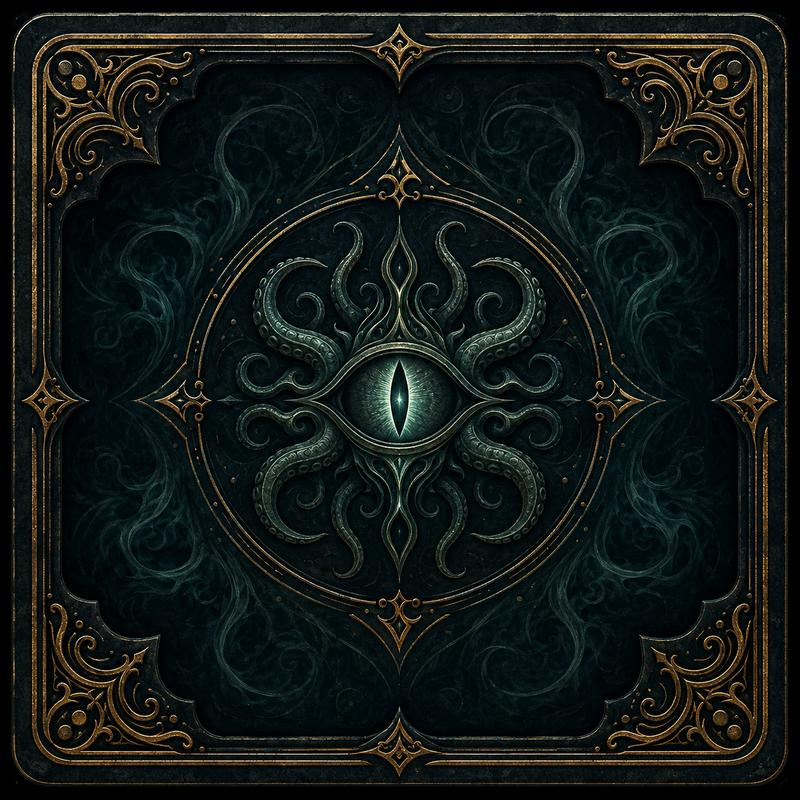
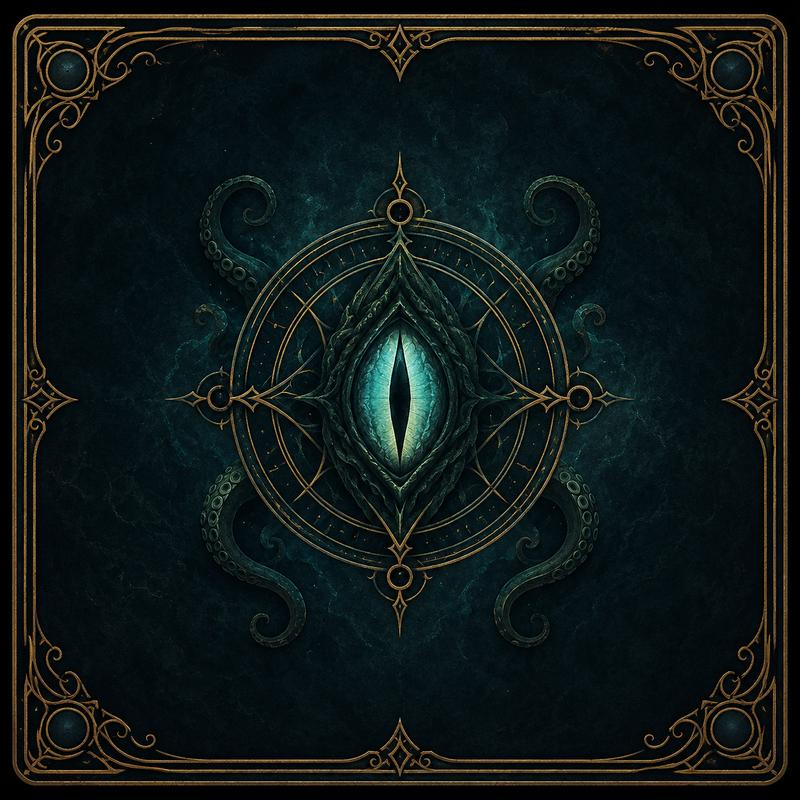
feat(splendor): optimize and update newly uploaded tier 1/2/3 card backs with cache busting

diff --git a/splendor.js b/splendor.js
@@ -243,7 +243,7 @@
 
   function cardBackHtml(tier) {
     const deck = state.tiers[tier];
-    return `<div class="splendor-card-back" data-tier="${tier}" style="background-image: url('assets/splendor/티어${tier}.jpg'); background-size: cover; background-position: center;">
+    return `<div class="splendor-card-back" data-tier="${tier}" style="background-image: url('assets/splendor/티어${tier}.jpg?v=2'); background-size: cover; background-position: center;">
       <span class="splendor-deck-count">${deck.length}</span>
     </div>`;
   }
@@ -980,9 +980,9 @@
         "assets/splendor/카트린 드 메디시스.jpg",
         "assets/splendor/프랑수아 1세.jpg",
         "assets/splendor/헨리 8세.jpg",
-        "assets/splendor/티어1.jpg",
-        "assets/splendor/티어2.jpg",
-        "assets/splendor/티어3.jpg",
+        "assets/splendor/티어1.jpg?v=2",
+        "assets/splendor/티어2.jpg?v=2",
+        "assets/splendor/티어3.jpg?v=2",
         "assets/splendor/background.jpg"
       ];
       

diff --git a/splendor.html b/splendor.html
@@ -132,6 +132,6 @@
     </main>
     <script src="shared-ui.js?v=20260707-splendor-restyle"></script>
     <script src="shared-profiles.js?v=20260707-splendor-restyle"></script>
-    <script src="splendor.js?v=20260709-bg"></script>
+    <script src="splendor.js?v=20260709-tier-update"></script>
   </body>
 </html>
